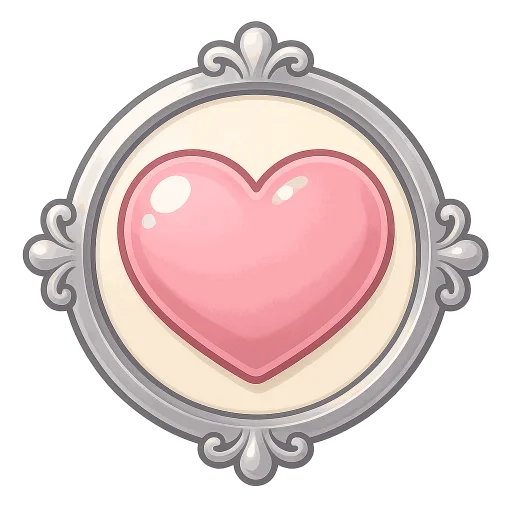
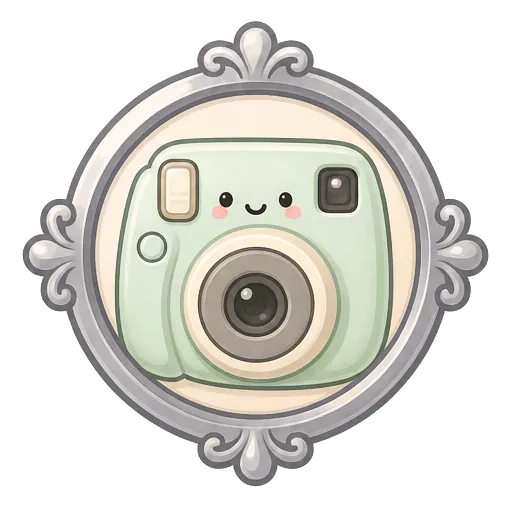
Refait les quatre médaillons qui montraient encore la créature
La réécriture des badges d'hier a gardé les 50 identifiants, donc les
50 images, nommées d'après eux. La plupart tombaient juste par chance
— une pousse pour « 5 plants », une licorne pour « rare ». Quatre
non : deux créatures qui se saluent pour « Créer ton premier
jardin », une foule de créatures pour « Créer 3 jardins », cinq
créatures pour « Planter 5 espèces », un cœur rose pour « 10 photos
de plants ».

Remplacés par un parterre surélevé, cinq légumes en rang, trois
parterres et un appareil photo. Le cadre de chacun est conservé à
l'identique — même bronze, même argent, même or à paillettes — parce
que 46 autres médaillons portent les mêmes.

42 crédits OpenArt, une seule planche, avec l'accord de Jean. La
méthode est notée dans le README du chantier kawaii : composer une
planche 2×2 des médaillons **existants**, la passer en référence à
GPT Image 2 en image-to-image, demander de ne changer que le motif du
disque crème, puis rendre le fond blanc transparent par remplissage
depuis les bords.

À retenir : quand le sens d'un badge change, son image ne suit pas
toute seule. `flutter analyze` ne voit rien, et `assets_exist_test`
non plus — le fichier existe, il raconte simplement autre chose.

diff --git a/CLAUDE.md b/CLAUDE.md
@@ -765,22 +765,26 @@ Règles spécifiques au projet pour être efficace dès la première action :
     réécrites, et les décomptes de caractères recalculés sur le texte
     réel (sept étaient déjà faux avant).
 
-13. **Quatre médaillons de badge contredisent leur badge** — les 50
-    identifiants ont été conservés lors de la réécriture du
-    31/10/2026, et donc les 50 images, nommées d'après eux. La
-    plupart tombent juste par chance (une pousse pour « 5 plants »,
-    une licorne pour « rare »), mais quatre montrent explicitement la
-    créature supprimée ou un objet sans rapport. Vérifié image par
-    image le 31/10 :
+13. ~~**Quatre médaillons de badge contredisent leur badge**~~ — ✅
+    **FAIT (31/10/2026, 42 crédits OpenArt, accord de Jean).** Refaits
+    dans le style actuel des badges : parterre surélevé pour « Premier
+    jardin », cinq légumes pour « Cinq espèces », trois parterres pour
+    « Trois jardins », appareil photo pour « Album ». Recette et mise
+    en garde dans `assets/images/vegetables_kawaii/README.md`.
 
-    | id | ce que montre l'image | ce que dit le badge |
-    | --- | --- | --- |
-    | `first_visit` | deux créatures qui se saluent | « Créer ton premier jardin » |
-    | `visits_5` | cinq créatures en rang | « Planter 5 espèces différentes » |
-    | `visits_10` | une foule de créatures | « Créer 3 jardins » |
-    | `pet_20` | un cœur rose | « 10 photos de plants » |
+    **Comment le problème était né** : la réécriture des badges a gardé
+    les 50 identifiants, donc les 50 images, qui sont nommées d'après
+    eux. La plupart tombaient juste par chance (une pousse pour
+    « 5 plants », une licorne pour « rare »), mais quatre montraient
+    la créature supprimée ou un objet sans rapport — deux créatures qui
+    se saluent pour « Créer ton premier jardin », une foule pour
+    « Créer 3 jardins », cinq créatures pour « Planter 5 espèces », un
+    cœur rose pour « 10 photos ». **Vérifier les images quand le sens
+    d'un badge change** : `flutter analyze` ne voit rien, et
+    `assets_exist_test.dart` non plus — le fichier existe, il raconte
+    simplement autre chose.
 
-    Quatre autres sont discutables sans être faux : `first_pet`
+    **Restent discutables, sans être faux** : `first_pet`
     (main + cœur → « mettre en favori », le cœur sauve la mise),
     `first_fertilize`, `fertilize_20` et `fertilize_100` (sacs
     d'engrais → cases de potager carré).

diff --git a/assets/images/vegetables_kawaii/README.md b/assets/images/vegetables_kawaii/README.md
@@ -14,6 +14,22 @@ un catalogue mi-plat mi-peint. On bascule quand la série est complète.
 | Légumes (`assets/images/vegetables/`) | 130 | 1 |
 | Badges (`assets/images/badges/`) | 0 | 50 |
 
+⚠ Quatre médaillons (`first_visit`, `visits_5`, `visits_10`,
+`pet_20`) ont été refaits le 31/10/2026 — mais **dans le style actuel
+des badges**, pas dans le kawaii peint de ce chantier. Ils montraient
+la créature supprimée la veille ; il fallait les remplacer tout de
+suite, et un médaillon au nouveau style au milieu de 46 anciens aurait
+sauté aux yeux. Ils repasseront dans le lot des 50 le moment venu.
+
+La recette employée, si elle doit resservir pour un cas pareil :
+planche 2×2 des médaillons **existants** composée avec Pillow, passée
+en référence à GPT Image 2 en image-to-image (1:1, 1k, qualité
+medium, 42 crédits), avec pour consigne de garder le cadre à
+l'identique et de ne remplacer que le motif du disque crème. Le
+résultat sort sur fond blanc : il faut le rendre transparent par
+remplissage depuis les bords, les badges existants ayant un fond
+transparent.
+
 Faits : les 130 cultures du catalogue. Seul `_inconnu`, la sentinelle « Légume inconnu », garde son emoji ❓.
 
 ## Style
